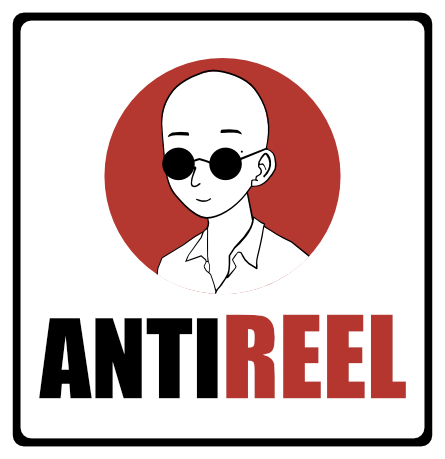
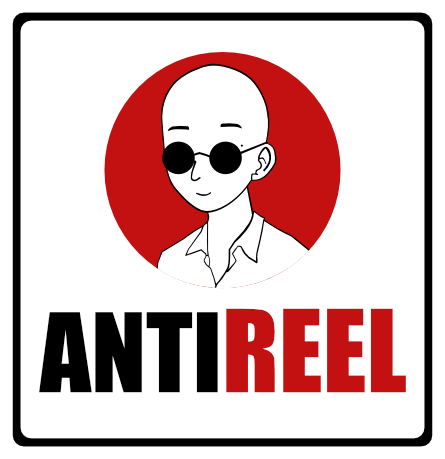
Cambiando Antiree]

diff --git a/css/style.css b/css/style.css
@@ -60,7 +60,7 @@ body{
   font-family: 'Lato', sans-serif;
   font-size: 1rem;
   line-height: 1.625em;
-  color:#B43730;
+  color:#C31111;
   overflow-y: hidden;
 }
 
@@ -71,21 +71,21 @@ body{
 
 ::-webkit-scrollbar-thumb {
   cursor: pointer;
-  background: #B43730;
+  background: #C31111;
 }
 
 ::selection{
-  background-color:#B43730;
+  background-color:#C31111;
   color:#000;
 }
 
 -webkit-::selection{
-    background-color:#B43730;
+    background-color:#C31111;
     color:#000;
 }
 
 ::-moz-selection{
-    background-color:#B43730;
+    background-color:#C31111;
     color:#000;
 }
 
@@ -200,7 +200,7 @@ ul{
 }
 
 a {
-  color:#B43730;
+  color:#C31111;
   -webkit-transition: color .3s ease-out;
        -o-transition: color .3s ease-out;
           transition: color .3s ease-out;
@@ -208,7 +208,7 @@ a {
 
 a:hover,
 a:focus {
-  color:#B43730;
+  color:#C31111;
   outline: none;
 }
 
@@ -258,7 +258,7 @@ textarea.form-control{
 }
 
 .form-control:focus{
-  border-color:#B43730;
+  border-color:#C31111;
   outline: 0;
   -webkit-box-shadow:none;
           box-shadow:none;
@@ -279,7 +279,7 @@ textarea.form-control{
 }
 
 label.error{
-  border-color:#B43730;
+  border-color:#C31111;
   padding:9px 0 0 22px;
   font-size:0.9rem;
 }
@@ -300,7 +300,7 @@ label.error{
   font-family: 'Karla', sans-serif;
   position: relative;
   display: inline-block;
-  border:0.2em solid #B43730;
+  border:0.2em solid #C31111;
   border-radius: 0;
   padding:1em 2.4em 1em;
   font-size: 0.875em;
@@ -310,7 +310,7 @@ label.error{
   letter-spacing: 0.15em;
   text-transform: uppercase;
   text-decoration: none;
-  background-color:#B43730;
+  background-color:#C31111;
   font-weight: 700;
   border-width: 1px;
   -webkit-transition: all .3s ease-out!important;
@@ -393,8 +393,8 @@ ion-icon{
 }
 
 .icon-play:hover{
-  border:1px solid #B43730;
-  background-color:#B43730; 
+  border:1px solid #C31111;
+  background-color:#C31111; 
   color: #343434;
 }
 
@@ -435,7 +435,7 @@ ion-icon{
   width: 100%;
   height: 100%;
   border-radius: 50%;
-  background-color: #B43730;
+  background-color: #C31111;
   opacity: 0.6;
   position: absolute;
   top: 0;
@@ -519,7 +519,7 @@ ion-icon{
 }
 
 .text-primary{
-  color:#B43730!important;
+  color:#C31111!important;
 }
 
 
@@ -661,7 +661,7 @@ ion-icon{
 }
 
 .social-icons ion-icon:hover{
-  color: #B43730;
+  color: #C31111;
 }
 
 .navbar-bottom-white,
@@ -820,7 +820,7 @@ ion-icon{
 
 .navbar-mobile .language .active a,
 .navbar-mobile .language li a:hover{
-  color: #B43730;
+  color: #C31111;
   text-decoration: none;
 }
 
@@ -837,7 +837,7 @@ ion-icon{
 
 .navbar-mobile .close:hover{
   opacity: 1;
-  color:#B43730;
+  color:#C31111;
 }
 
 @media (min-width: 576px){
@@ -870,7 +870,7 @@ ion-icon{
 .navbar-nav-mobile li .active,
 .navbar-nav-mobile  li a:hover,
 .navbar-nav-mobile  li a:focus{
-  color:#B43730;
+  color:#C31111;
 }
 
 .menu-is-open{
@@ -977,7 +977,7 @@ ion-icon{
 h1 + .line{
   margin-top:15vh;
   width: 25%;
-  border-top:3px  solid #B43730;
+  border-top:3px  solid #C31111;
   transition:all .3s ease;
 }
 
@@ -1077,7 +1077,7 @@ h1 + .line{
   height: 0;
   content: '';
   transition:all .3s ease;
-   background-color: #B43730;
+   background-color: #C31111;
 }
 
 .progress-nav li:before{
@@ -1111,7 +1111,7 @@ h1 + .line{
   font-size: 10rem;
   line-height: 1;
   font-family: 'Karla', sans-serif;
-  color:#B43730;
+  color:#C31111;
 }
 
 .experience-text{
@@ -1176,7 +1176,7 @@ h1 + .line{
 }
 
 .owl-dot.active span{
-  background-color: #B43730;
+  background-color: #C31111;
 }
 
 .owl-nav{
@@ -1206,7 +1206,7 @@ h1 + .line{
 .owl-prev:hover,
 .owl-next:hover{
   opacity: 1!important;
-  color:#B43730!important;
+  color:#C31111!important;
 }
 
 
@@ -1267,7 +1267,7 @@ h1 + .line{
 
 .progress-bar:before{
   position: absolute;
-  background:#B43730;
+  background:#C31111;
   content:'';
   width:0;
   height: 100%;
@@ -1383,7 +1383,7 @@ h1 + .line{
 }
 
 .project-box:hover{
-  background: #B43730;
+  background: #C31111;
   text-decoration: none;
   border-color: transparent;
 }
